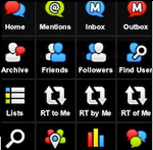
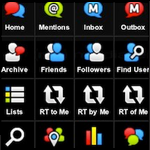
Adaptive layout changes

diff --git a/mozilla/dashboard/index.html b/mozilla/dashboard/index.html
@@ -16,25 +16,21 @@
 
         <div class="container">
 
-            <header class="header" role="banner">
-                <h1>HTML5 demo page</h1>
-            </header>
-
             <div class="main">
                 <article class="main-content" role="main">
 
                     <ul>
-                        <li><a href="http://paulrouget.com/mwc-demos/runfield/"><img src="images/runfield.png"><span>Runfield</span></a></li>
-                        <li><a href="http://paulrouget.com/mwc-demos/browserquest/client/"><img src="images/browserquest.png"><span>BrowserQuest</span></a></li>
-                        <li><a href="http://paulrouget.com/mwc-demos/apis/webcam/"><img src="images/webcam.png"><span>Webcam</span></a></li>
-                        <li><a href="http://paulrouget.com/mwc-demos/apis/battery.html"><img src="images/battery.png"><span>Battery</span></a></li>
-                        <li><a href="http://paulrouget.com/mwc-demos/apis/geolocation.html"><img src="images/geolocation.png"><span>Geolocation</span></a></li>
-                        <li><a href="http://paulrouget.com/mwc-demos/apis/notification.html"><img src="images/notification.png"><span>Notification</span></a></li>
-                        <li><a href="http://paulrouget.com/mwc-demos/apis/orientation.html"><img src="images/orientation.png"><span>Orientation</span></a></li>
-                        <li><a href="http://paulrouget.com/mwc-demos/apis/vibration.html"><img src="images/vibration.png"><span>Vibrartion</span></a></li>
-                        <li><a href="http://hahlo.com/"><img src="images/hahlo.png"><span>Hahlo Twitter client</span></a></li>
-                        <li><a href="http://paulrouget.com/mwc-demos/webgl/minegl.html"><img src="images/minegl.png"><span>WebGL Cube</span></a></li>
-                        <li><a href="http://paulrouget.com/mwc-demos/webgl/gnomwgl.htm"><img src="images/gnome.png"><span>WebGL Gnome</span></a></li>
+                        <li><a href="http://paulrouget.com/mwc-demos/runfield/"><img src="images/runfield.png" alt=""><span>Runfield</span></a></li>
+                        <li><a href="http://paulrouget.com/mwc-demos/browserquest/client/"><img src="images/browserquest.png" alt=""><span>BrowserQuest</span></a></li>
+                        <li><a href="http://paulrouget.com/mwc-demos/apis/webcam/"><img src="images/webcam.png" alt=""><span>Webcam</span></a></li>
+                        <li><a href="http://paulrouget.com/mwc-demos/apis/battery.html"><img src="images/battery.png" alt=""><span>Battery</span></a></li>
+                        <li><a href="http://paulrouget.com/mwc-demos/apis/geolocation.html"><img src="images/geolocation.png" alt=""><span>Geolocation</span></a></li>
+                        <li><a href="http://paulrouget.com/mwc-demos/apis/notification.html"><img src="images/notification.png" alt=""><span>Notification</span></a></li>
+                        <li><a href="http://paulrouget.com/mwc-demos/apis/orientation.html"><img src="images/orientation.png" alt=""><span>Orientation</span></a></li>
+                        <li><a href="http://paulrouget.com/mwc-demos/apis/vibration.html"><img src="images/vibration.png" alt=""><span>Vibration</span></a></li>
+                        <li><a href="http://hahlo.com/"><img src="images/hahlo.png" alt=""><span>Hahlo Twitter client</span></a></li>
+                        <li><a href="http://paulrouget.com/mwc-demos/webgl/minegl.html"><img src="images/minegl.png" alt=""><span>WebGL Cube</span></a></li>
+                        <li><a href="http://paulrouget.com/mwc-demos/webgl/gnomwgl.htm"><img src="images/gnome.png" alt=""><span>WebGL Gnome</span></a></li>
                     </ul>
 
 

diff --git a/mozilla/dashboard/css/base.css b/mozilla/dashboard/css/base.css
@@ -4,7 +4,7 @@ body {
 }
 
 h1 {
-    margin-top: 0;
+    margin: 0;
 }
 
 h2 {
@@ -12,45 +12,65 @@ h2 {
 }
 
 .container {
-    width: 900px;
+    width: 830px;
     background: #fff;
     border-radius: 10px;
     margin: 0 auto;
-    padding: 30px;
+    padding: 30px 0;
 }
 
 header {
-    margin-bottom: 20px;
+    margin-bottom: 5px;
     border-bottom: 1px solid #000;
 }
 
 .main-content {
     overflow: hidden;
+    padding: 0 10px;
+}
+
+ul {
+    overflow: hidden;
+    margin: 15px 0;
+    padding: 15px;
 }
 
 li {
     position: relative;
     float: left;
-    width: 150px;
-    height: 170px;
+    width: 30%;
     list-style: none;
-    margin: 0 20px 20px 0;
-    overflow: hidden;
-    padding: 10px;
+    border: 10px solid #fff;
+    margin: 0 4% 4% 0;
+    padding: 0;
     -moz-box-shadow: 0 0 10px 2px #000;
     -webkit-box-shadow: 0 0 10px 2px #000;
     -o-box-shadow: 0 0 10px 2px #000;
     -ms-box-shadow: 0 0 10px 2px #000;
-    box-shadow: 0 0 10px 2px #000;
+    box-shadow: 0 0 10px 2px #aaa;
+    -moz-box-sizing: border-box;
+    -webkit-box-sizing: border-box;
+    -o-box-sizing: border-box;
+    -ms-box-sizing: border-box;
+    box-sizing: border-box;
+    -moz-transform: perspective(600);
+    transform: perspective(600);
+    -moz-perspective: 600;
+}
+
+li:nth-child(3n) {
+    margin-right: 0;
 }
 
 li img {
+    float: left;
+    width: 100%;
 }
 
 li span {
     position: absolute;
     left: 0;
-    bottom: 0;
+    bottom: 0px;
     width: 100%;
     padding: 5px;
     color: #fff;
@@ -71,12 +91,25 @@ li span {
 
 @media screen and (max-width: 800px) {
 	.container {
-		width: 100%;
+		width: 90%;
         margin-top: 50px;
-        padding: 10px;
+        padding: 2%;
 	}
 
+    .main-content {
+        padding: 0;
+    }
+
     li {
-        
+       width: 46%; 
+    }
+
+    li,
+    li:nth-child(3n) {
+        margin: 0 8% 8% 0;
+    }
+
+    li:nth-child(even) {
+        margin-right: 0;
     }
 }
